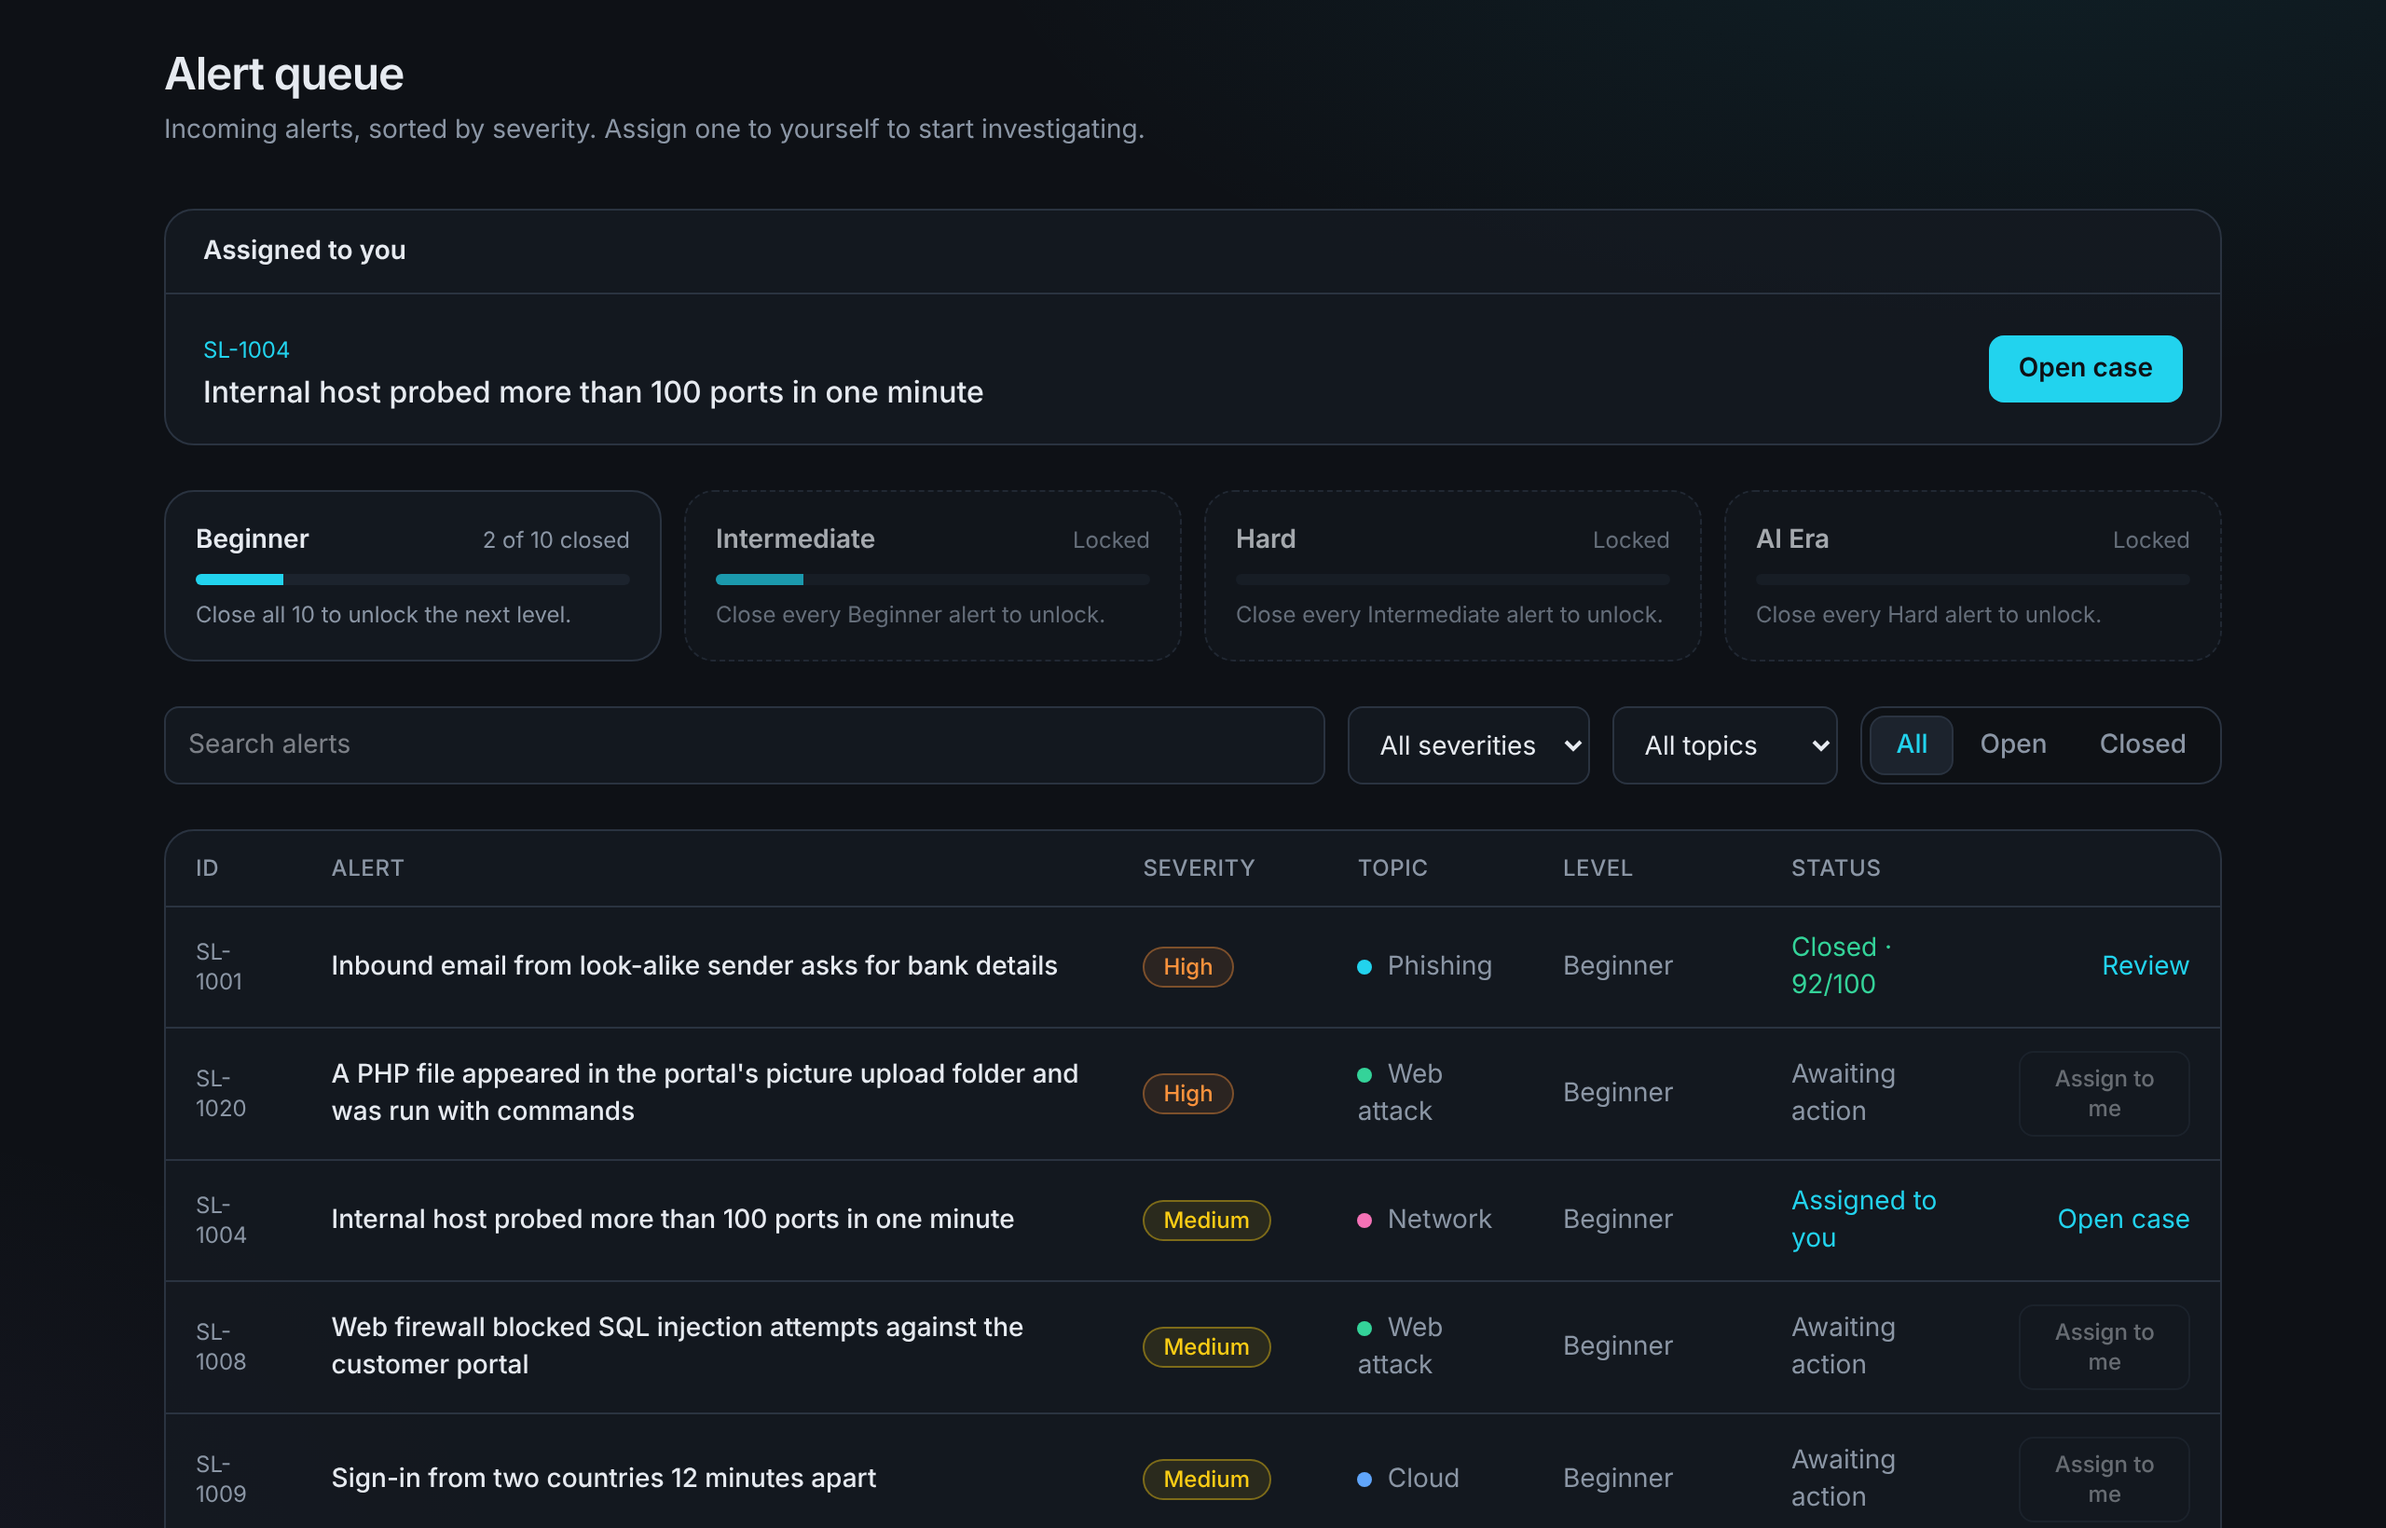
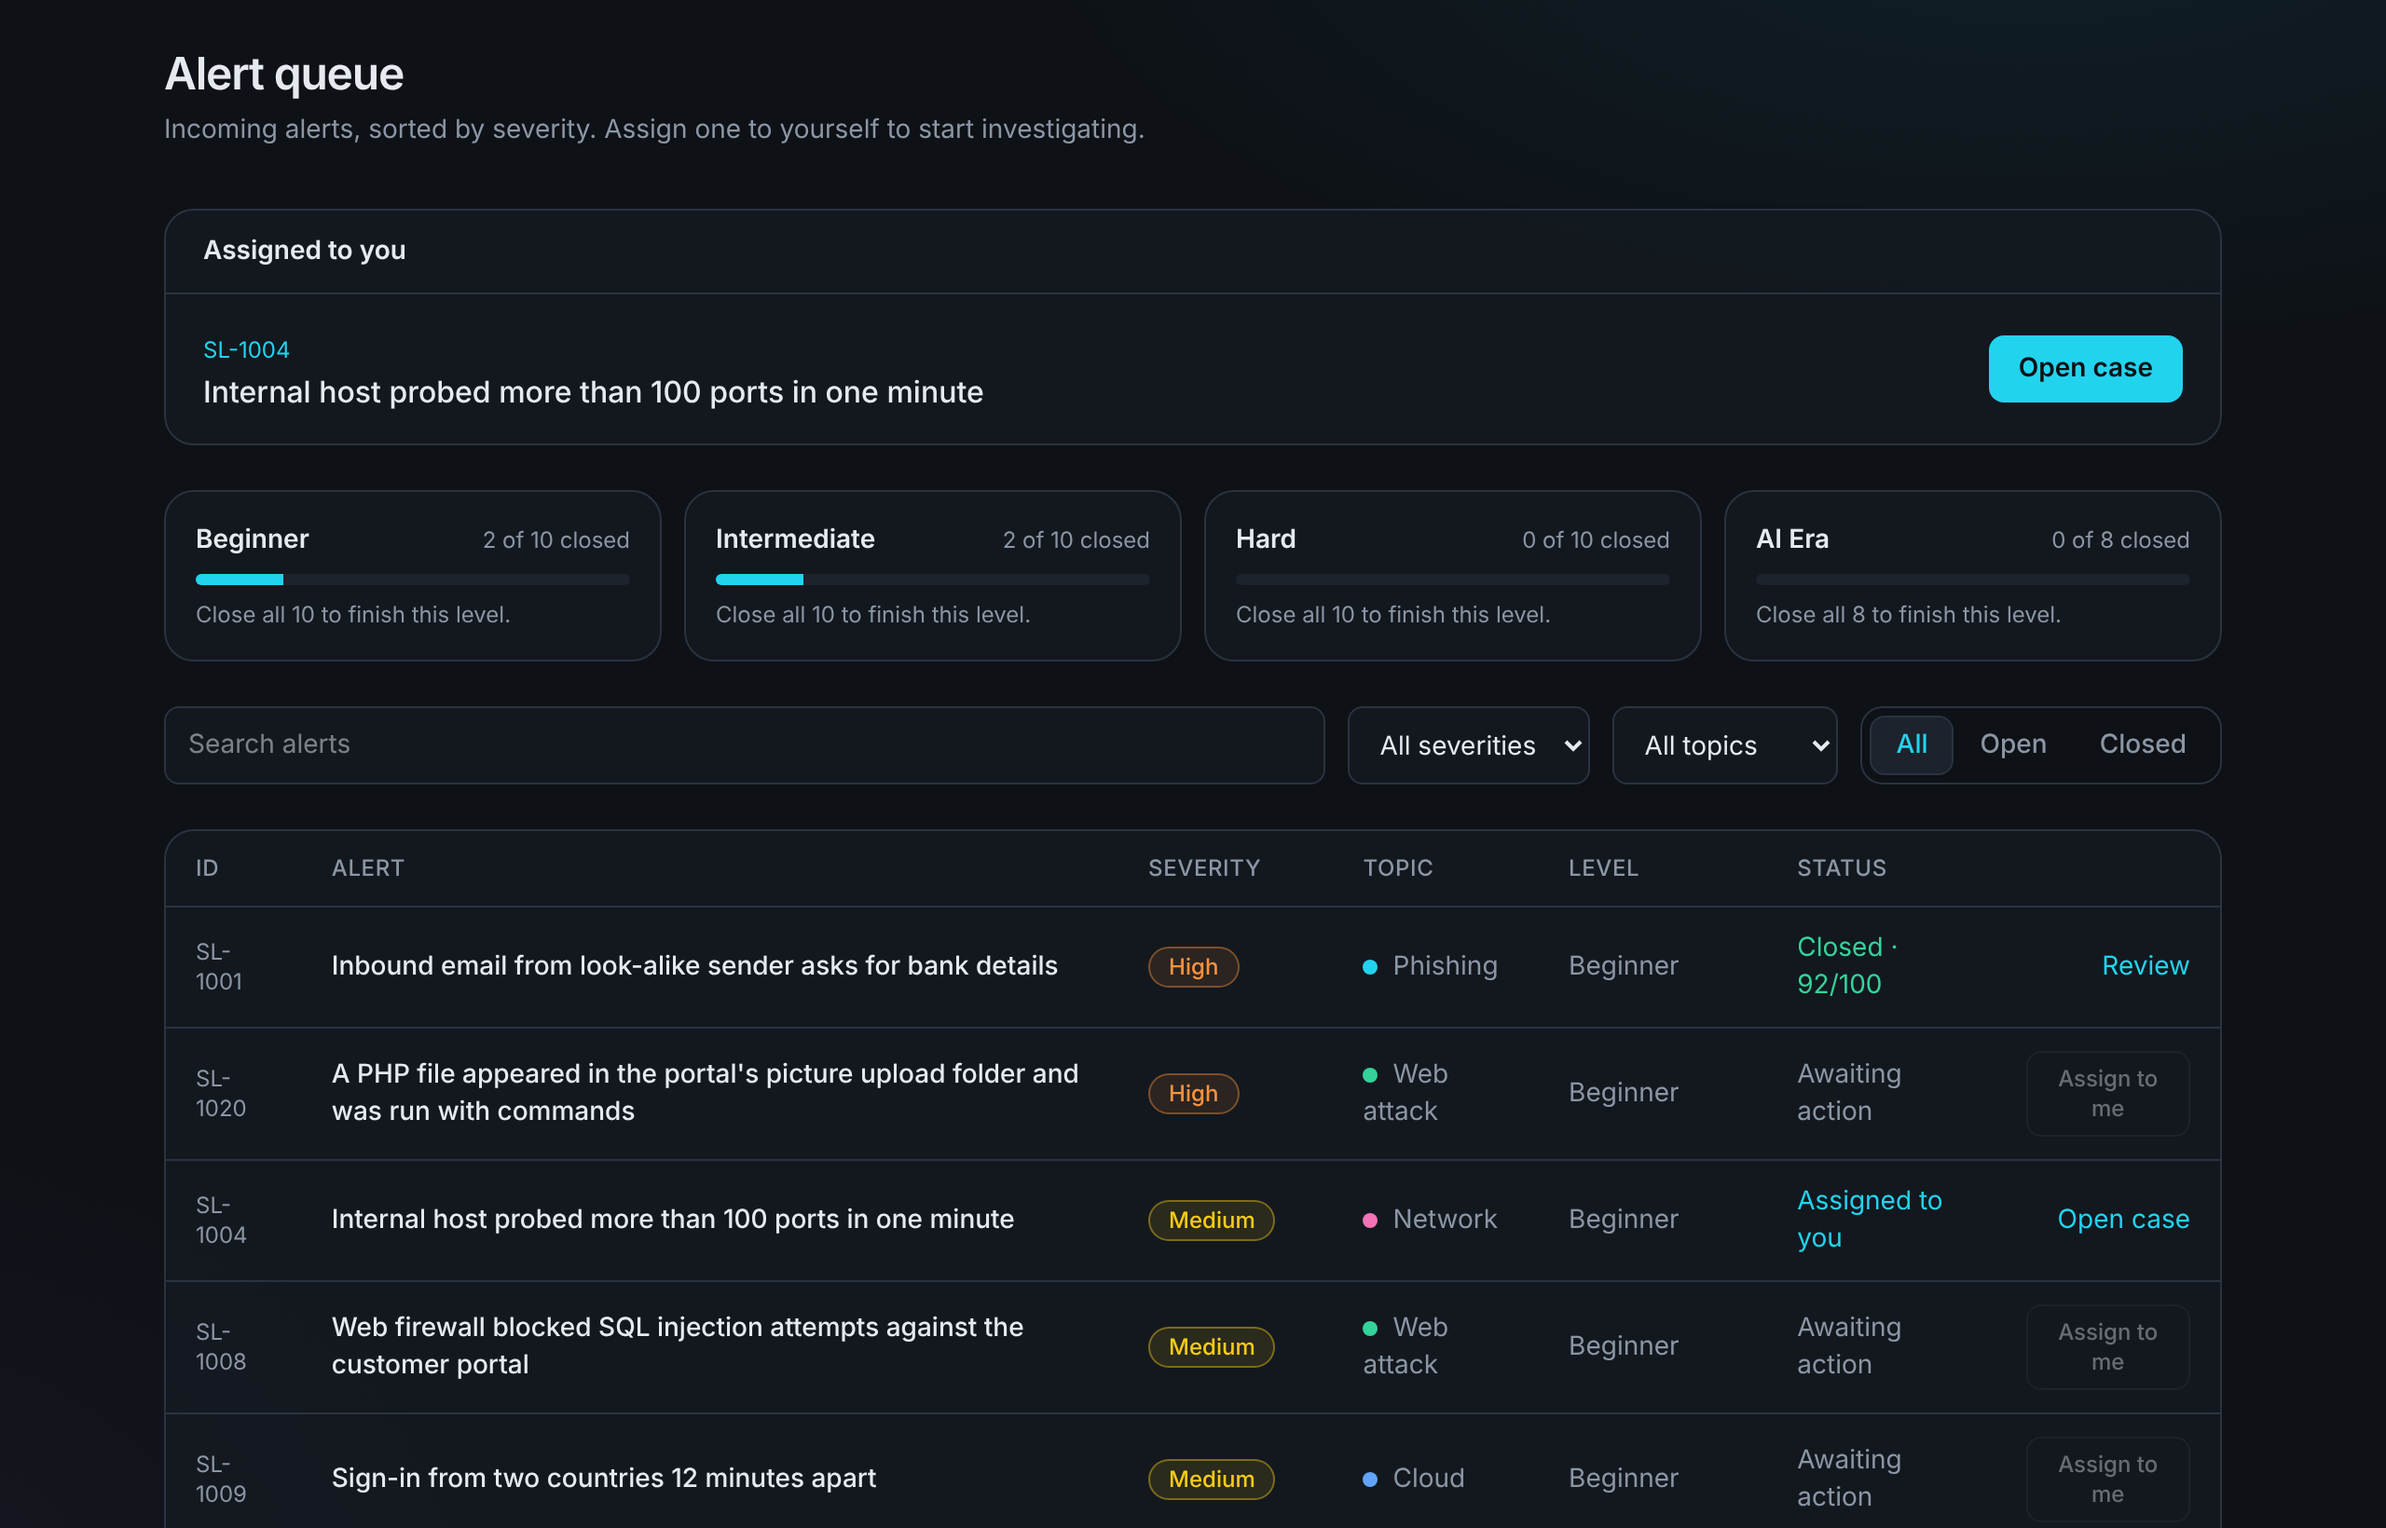
Real-world wording in social preview and metadata

diff --git a/app/layout.tsx b/app/layout.tsx
@@ -20,8 +20,8 @@ export const metadata: Metadata = {
   metadataBase: new URL(SITE_URL),
   title: { default: "ShiftLab", template: "%s · ShiftLab" },
   description:
-    "Practise the SOC Level 1 analyst job on fictional alerts: investigate, triage, report, and get coached.",
-  openGraph: { title: "ShiftLab", description: "Practise the SOC Level 1 analyst job on fictional alerts.", type: "website", images: [{ url: "/og.png", width: 1200, height: 630, alt: "ShiftLab" }] },
+    "Practise the SOC Level 1 analyst job on real-world attack scenarios: investigate, triage, report, and get coached.",
+  openGraph: { title: "ShiftLab", description: "Practise the SOC Level 1 analyst job on real-world attack scenarios.", type: "website", images: [{ url: "/og.png", width: 1200, height: 630, alt: "ShiftLab" }] },
   twitter: { card: "summary_large_image", images: ["/og.png"] },
 };
 
